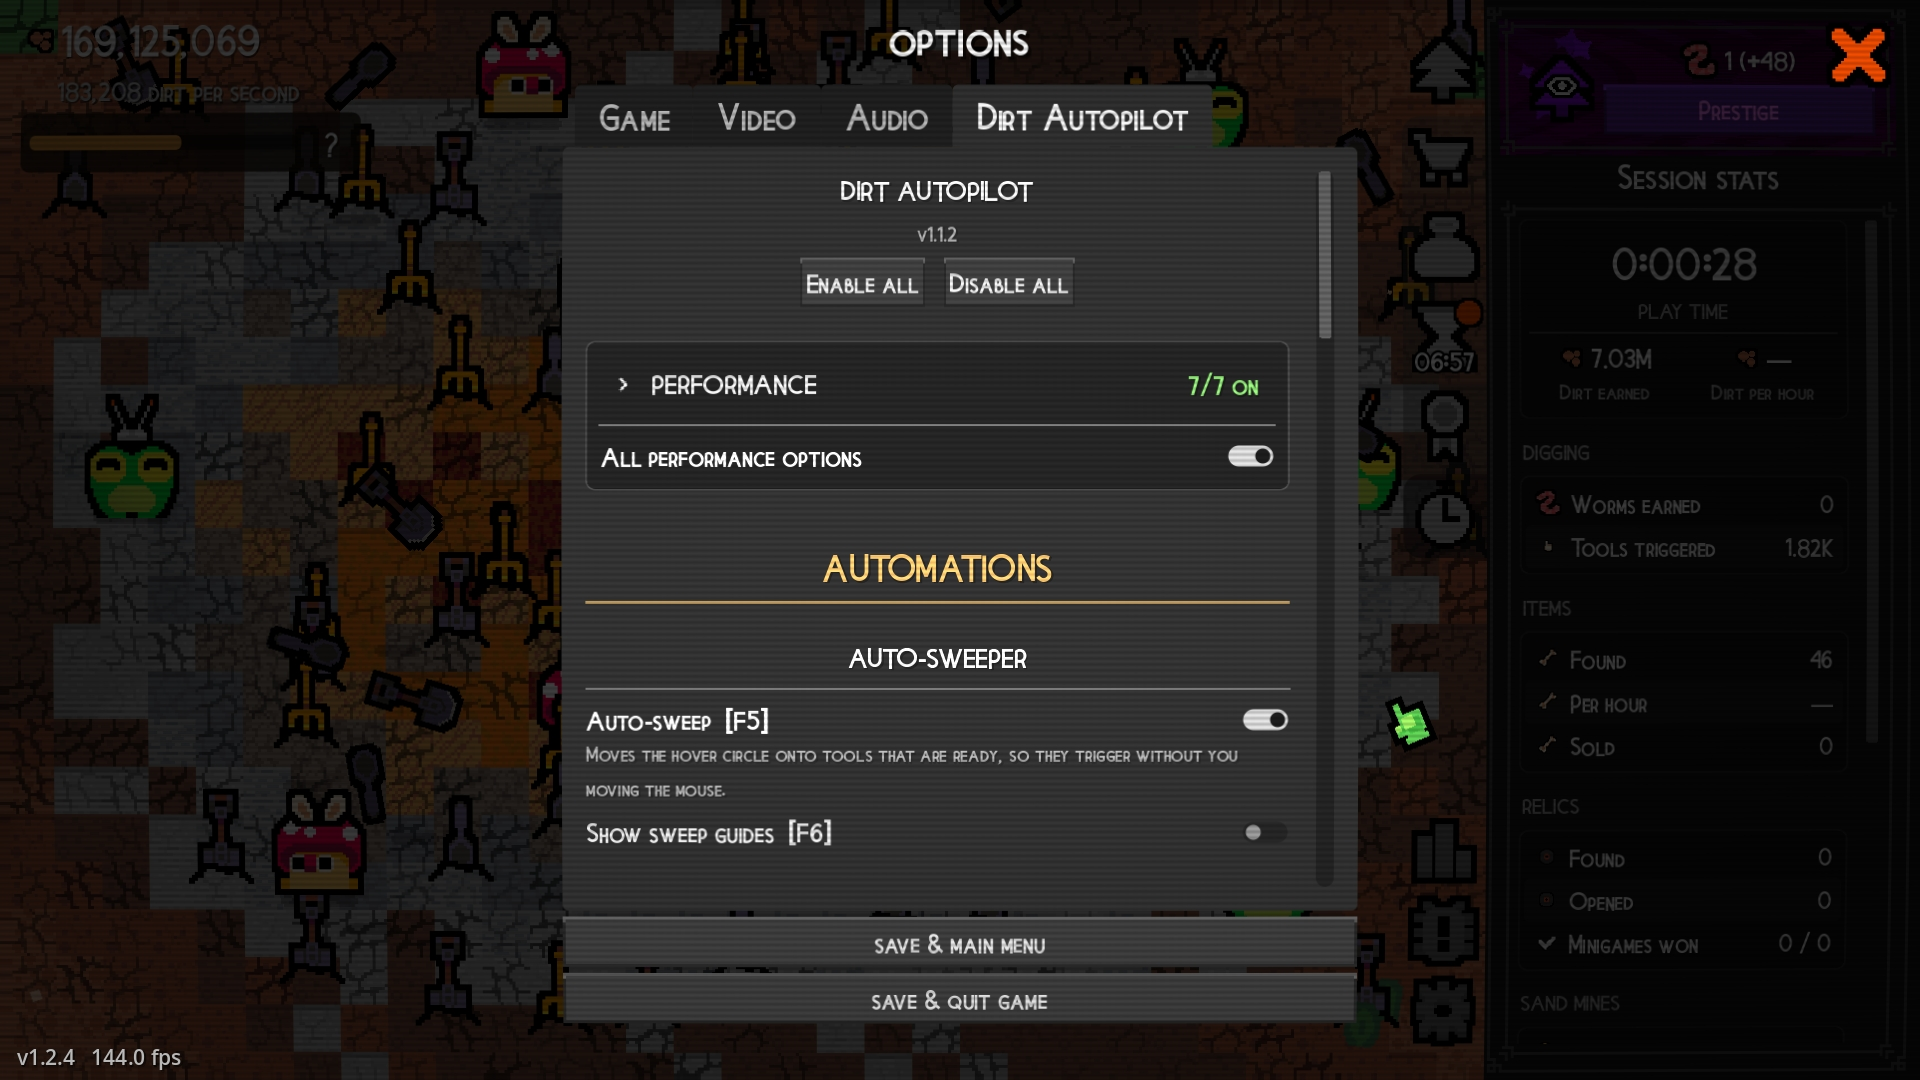
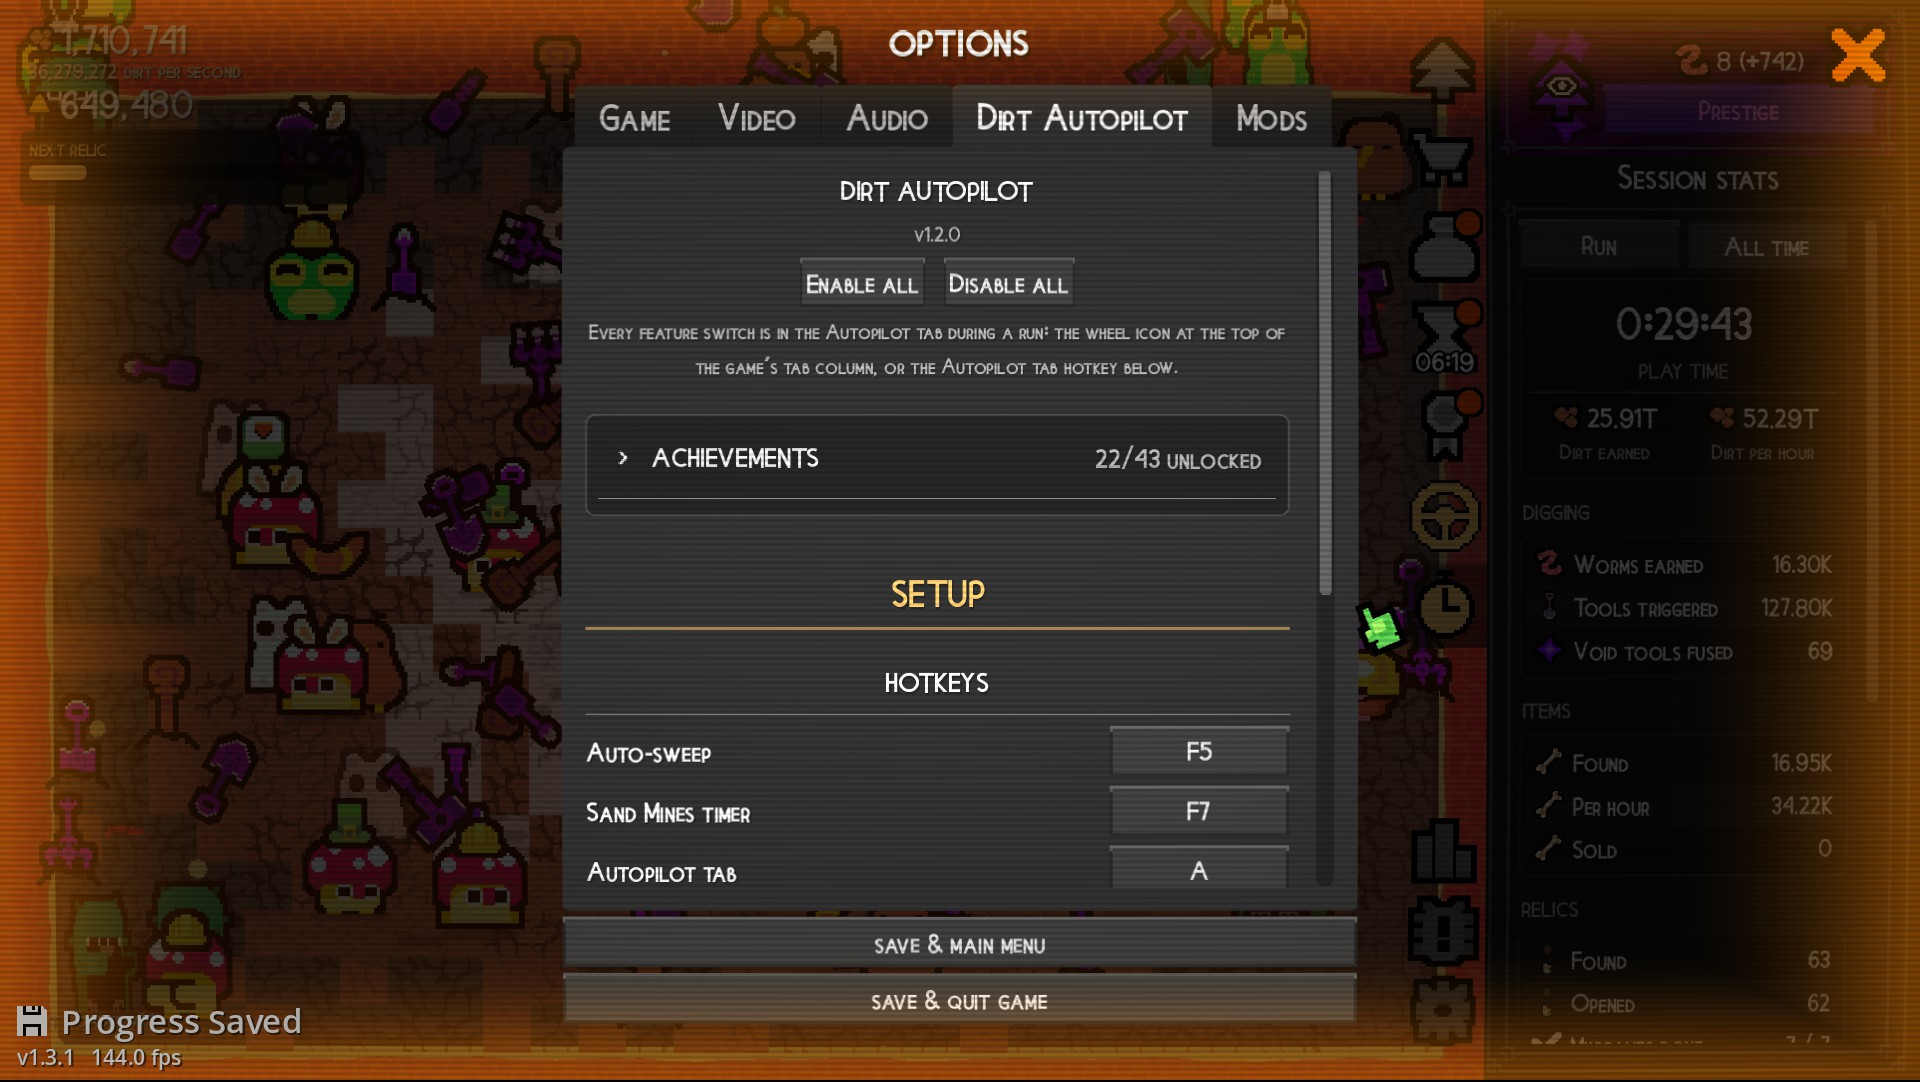
v1.2.0: Refresh screenshots and install wording
- Swap in Autopilot, Display, Session stats and Options shots
- Drop the old qol, session-stats and hotkeys images
- Point install steps at Options and credit the loaders by author

diff --git a/docs/index.html b/docs/index.html
@@ -270,7 +270,7 @@
   </header>
 
   <main>
-    <img class="shot" style="margin-top: 40px" src="images/main.jpg" width="1920" height="1080" alt="Dirt Autopilot in a run: the prestige alert naming the best upgrade to buy, the Sand Mines timer stopped at 00.00 for a PERFECT, and the next-milestone bar under dirt per second">
+    <img class="shot" style="margin-top: 40px" src="images/main.jpg" width="1920" height="1082" alt="Dirt Autopilot in a run: the Autopilot tab with AUTO-BUY, the next purchases and Just bought, plus the prestige alert">
 
     <h2>What it does</h2>
     <div class="grid">
@@ -335,20 +335,20 @@
     <h2>In the game</h2>
     <div class="gallery">
       <figure>
-        <img class="shot" src="images/performance.jpg" width="1671" height="941" loading="lazy" alt="The same late-game run without and with the Performance options">
+        <img class="shot" src="images/performance.jpg" width="1670" height="942" loading="lazy" alt="The same late-game run without and with the Performance options">
         <figcaption>Performance options late in the game</figcaption>
       </figure>
       <figure>
-        <img class="shot" src="images/settings.jpg" width="1920" height="1080" loading="lazy" alt="The Dirt Autopilot tab in Options: Enable all and Disable all, the Performance card with one switch for all options, and the Automations group starting with the auto-sweeper">
-        <figcaption>Options → Dirt Autopilot: Performance and Automations</figcaption>
+        <img class="shot" src="images/display.jpg" width="1920" height="1082" loading="lazy" alt="The Autopilot Display card open: milestones, prestige alert, legendary protection, popup skips and the Hide performance chips">
+        <figcaption>Display card: milestones, popups and FPS savers</figcaption>
       </figure>
       <figure>
-        <img class="shot" src="images/qol.jpg" width="1920" height="1080" loading="lazy" alt="The Quality of life group: next milestone, prestige alert, legendary protection, popup skipping and the Achievements card">
-        <figcaption>Quality of life: progress, items, popups and achievements</figcaption>
+        <img class="shot" src="images/stats.jpg" width="1920" height="1082" loading="lazy" alt="The Session stats tab open next to the play field">
+        <figcaption>The Session stats tab (<kbd>C</kbd>)</figcaption>
       </figure>
       <figure>
-        <img class="shot" src="images/session-stats.jpg" width="1920" height="1080" loading="lazy" alt="The Session stats tab open next to the play field, its C hotkey shown on the tab, and the prestige alert naming the best buy">
-        <figcaption>The Session stats tab (<kbd>C</kbd>) and the prestige alert</figcaption>
+        <img class="shot" src="images/settings.jpg" width="1920" height="1082" loading="lazy" alt="Options → Dirt Autopilot: Enable all, the Achievements card and Hotkeys">
+        <figcaption>Options → Dirt Autopilot: achievements and hotkeys</figcaption>
       </figure>
     </div>
 
@@ -375,11 +375,11 @@
       <li>Download <code>eyyMinda-DirtAutopilot-&lt;version&gt;.zip</code> from <a href="https://www.nexusmods.com/dirtclicker/mods/1">Nexus Mods</a> or <a href="https://github.com/eyyMinda/DirtAutopilot/releases/latest">GitHub</a>.</li>
       <li>Open your game folder: in your Steam Library, right-click <b>Dirt Clicker</b> → <b>Manage</b> → <b>Browse local files</b>. Then open the <code>mods</code> folder (create it if it isn't there).
         <ul>
-          <li><b>DirtLoader:</b> extract the zip into <code>mods</code>, so you get <code>mods\eyyMinda-DirtAutopilot\</code>.</li>
-          <li><b>Godot Mod Loader:</b> put the zip in <code>mods</code> as it is.</li>
+          <li><b>DirtLoader</b> by SleepyZx3: extract the zip into <code>mods</code>, so you get <code>mods\eyyMinda-DirtAutopilot\</code>.</li>
+          <li><b>Godot Mod Loader</b> by KonoTyran: put the zip in <code>mods</code> as it is.</li>
         </ul>
       </li>
-      <li>Start a run and open the <b>Autopilot</b> tab (the wheel icon in the game's tab column, or <kbd>A</kbd>). Hotkeys, achievements and reset are in <b>Options → Dirt Autopilot</b>.</li>
+      <li>Start the game and open <b>Options → Dirt Autopilot</b>. With DirtLoader, <b>Options → Mods → Settings</b> opens the same page. During a run, the <b>Autopilot</b> tab (wheel icon, or <kbd>A</kbd>) holds every feature switch.</li>
     </ol>
 
     <h2>Hotkeys</h2>
@@ -391,7 +391,7 @@
       <tr><td><kbd>F9</kbd></td><td>Open or close the Dirt Autopilot settings</td></tr>
     </table>
     <p class="note">To change a key, click it in the <b>Hotkeys</b> section of <b>Options → Dirt Autopilot</b>, then press the new one. Esc cancels and Backspace removes it.</p>
-    <img class="shot" src="images/hotkeys.jpg" width="1920" height="1080" loading="lazy" alt="The Setup group of the Dirt Autopilot settings: Auto-sweep F5, Sweep guides F6, Sand Mines timer F7, Session stats tab C, Open these settings F9, and Reset all settings">
+    <img class="shot" src="images/settings.jpg" width="1920" height="1082" loading="lazy" alt="Options → Dirt Autopilot: Enable all, the Achievements card and Hotkeys">
 
     <h2>What's on from the start</h2>
     <p>Most features are off until you switch them on. These start on: <b>spending sand</b>, <b>legendary protection</b>, <b>hats on pals</b>, the <b>next-milestone bar</b> and the <b>prestige alert</b>. <b>Enable all</b> and <b>Disable all</b> at the top of the settings switch every feature at once; the Performance options have their own switch.</p>

diff --git a/README.md b/README.md
@@ -2,7 +2,7 @@
 
 An in-game automation helper for **Dirt Clicker**. Website: [eyyminda.github.io/DirtAutopilot](https://eyyminda.github.io/DirtAutopilot/) · Download: [Nexus Mods](https://www.nexusmods.com/dirtclicker/mods/1) or [GitHub releases](https://github.com/eyyMinda/DirtAutopilot/releases/latest). Unofficial and fan-made; not affiliated with the developers of Dirt Clicker.
 
-![Dirt Autopilot in a run: the prestige alert naming the best buy, the Sand Mines timer stopped at 00.00 for a PERFECT, and the next-milestone bar under dirt per second](docs/images/main.jpg)
+![Dirt Autopilot in a run: the Autopilot tab with AUTO-BUY, the next purchases and Just bought, plus the prestige alert](docs/images/main.jpg)
 
 Most features are **off until you switch them on**, in the **Autopilot** tab of the game's tab column (or **A**). On from the start: spending sand, legendary protection, putting hats on pals, the next-milestone bar and the prestige alert.
 
@@ -32,10 +32,10 @@ Performance, Hats on pals and Achievements are cards you can fold away; their sw
 
 | | |
 | --- | --- |
-| ![The same late-game run without and with the Performance options](docs/images/performance.jpg) | ![The Dirt Autopilot tab in Options: Enable all and Disable all, the Performance card and the Automations group](docs/images/settings.jpg) |
-| **Performance** options late in the game | **Options → Dirt Autopilot** |
-| ![The Quality of life group: next milestone, prestige alert, legendary protection, popup skipping and the Achievements card](docs/images/qol.jpg) | ![The Session stats tab with its C hotkey, and the prestige alert naming the best buy](docs/images/session-stats.jpg) |
-| **Quality of life** | **Session stats tab** and the prestige alert |
+| ![The same late-game run without and with the Performance options](docs/images/performance.jpg) | ![The Autopilot Display card open: milestones, prestige alert, legendary protection, popup skips and the Hide performance chips](docs/images/display.jpg) |
+| **Performance** options late in the game | **Display** card in the Autopilot tab |
+| ![The Session stats tab open next to the play field](docs/images/stats.jpg) | ![Options → Dirt Autopilot: Enable all, the Achievements card and Hotkeys](docs/images/settings.jpg) |
+| **Session stats** tab | **Options → Dirt Autopilot** |
 
 ## Install
 
@@ -44,9 +44,9 @@ Dirt Autopilot needs Dirt Clicker 1.3.1 or newer and a mod loader. It works with
 1. Install your mod loader by following its own instructions.
 2. Download `eyyMinda-DirtAutopilot-<version>.zip` from the [latest release](https://github.com/eyyMinda/DirtAutopilot/releases/latest).
 3. Put the mod where your loader looks for mods:
-   - **Godot Mod Loader:** put the `.zip` as-is in `<game folder>\mods\`.
-   - **DirtLoader:** extract the zip into `<game folder>\mods\`, so you get `<game folder>\mods\eyyMinda-DirtAutopilot\`.
-4. Start a run and open the **Autopilot** tab (the wheel icon in the game's tab column, or **A**). Hotkeys, achievements and reset are in **Options → Dirt Autopilot** (with DirtLoader also **Options → Mods → Settings**).
+   - **DirtLoader** by SleepyZx3: extract the zip into `<game folder>\mods\`, so you get `<game folder>\mods\eyyMinda-DirtAutopilot\`.
+   - **Godot Mod Loader** by KonoTyran: put the `.zip` as-is in `<game folder>\mods\`.
+4. Start the game and open **Options → Dirt Autopilot**. With DirtLoader, **Options → Mods → Settings** opens the same page. During a run, the **Autopilot** tab (wheel icon, or **A**) holds every feature switch.
 
 ## Hotkeys
 
@@ -60,7 +60,7 @@ Dirt Autopilot needs Dirt Clicker 1.3.1 or newer and a mod loader. It works with
 
 To change a key, click it in the **Hotkeys** section of **Options → Dirt Autopilot**, then press the new one. Esc cancels and Backspace removes it.
 
-![The Setup group: hotkeys and Reset all settings](docs/images/hotkeys.jpg)
+![Options → Dirt Autopilot: Enable all, Achievements and Hotkeys](docs/images/settings.jpg)
 
 ## Good to know
 
